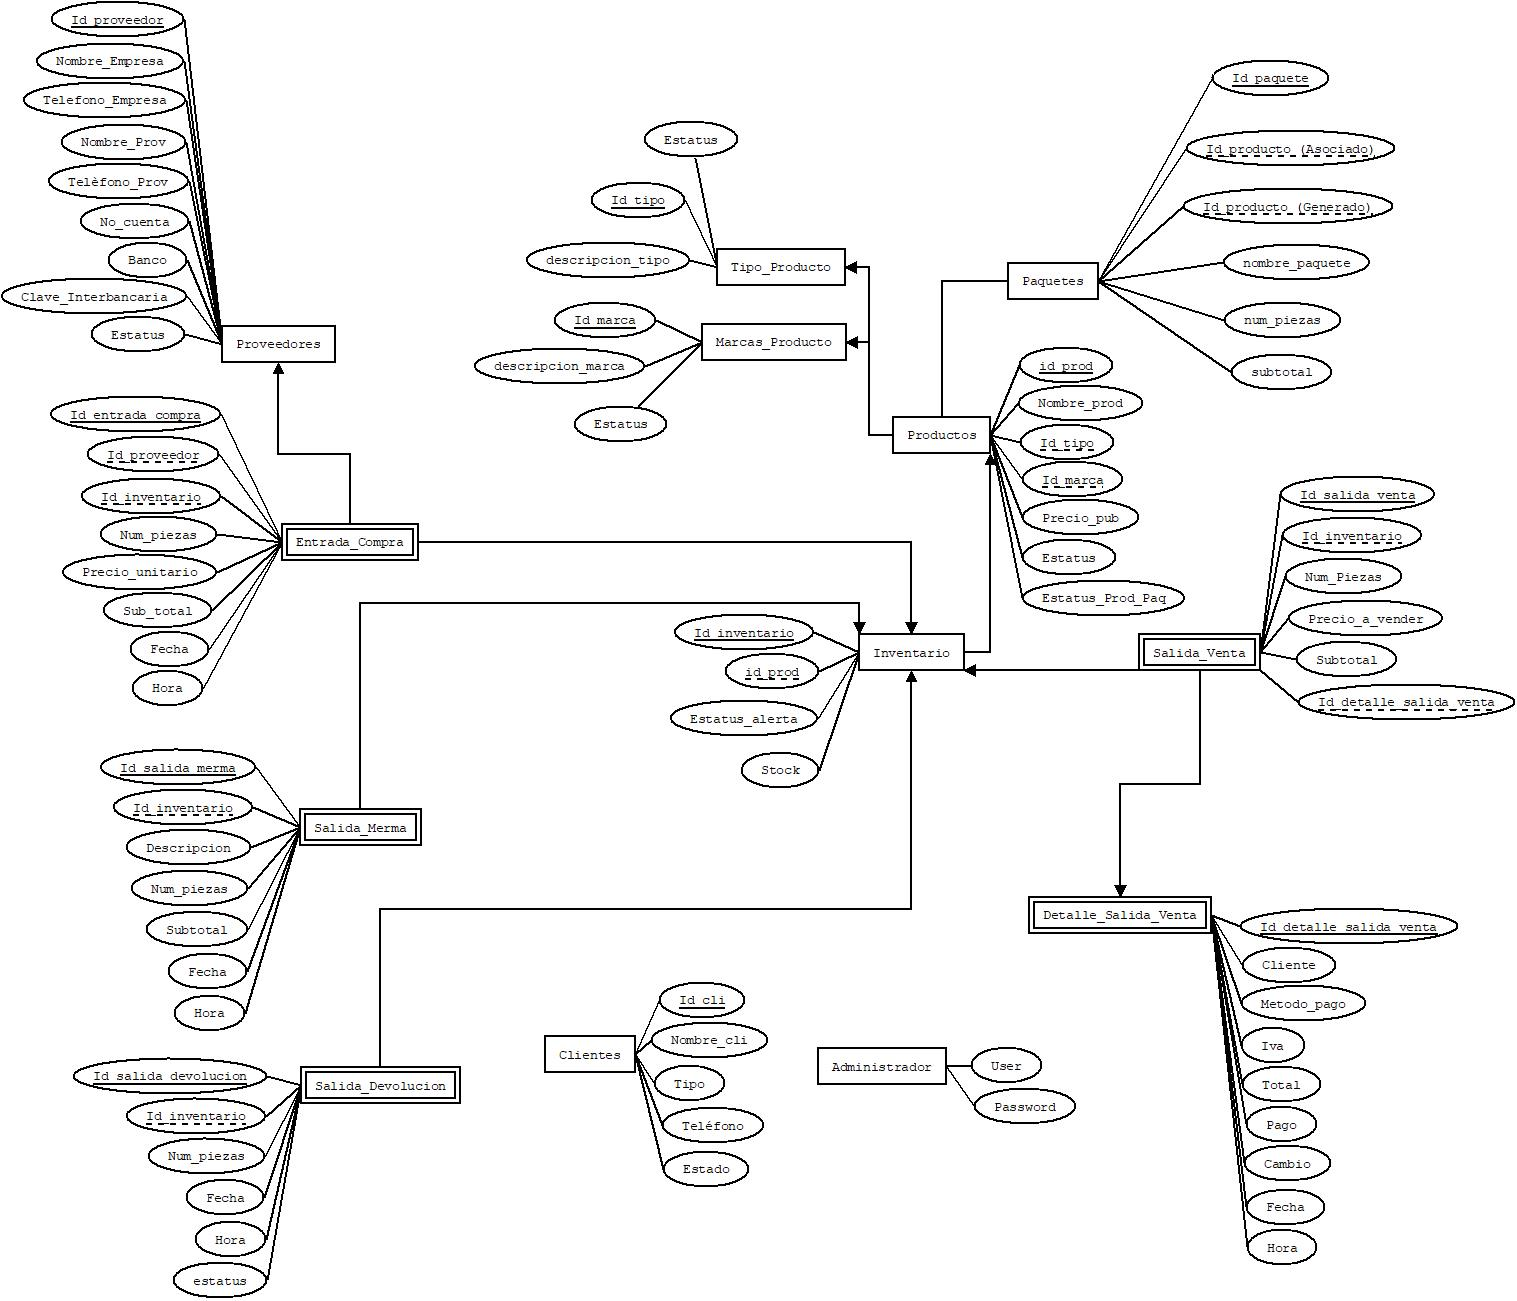
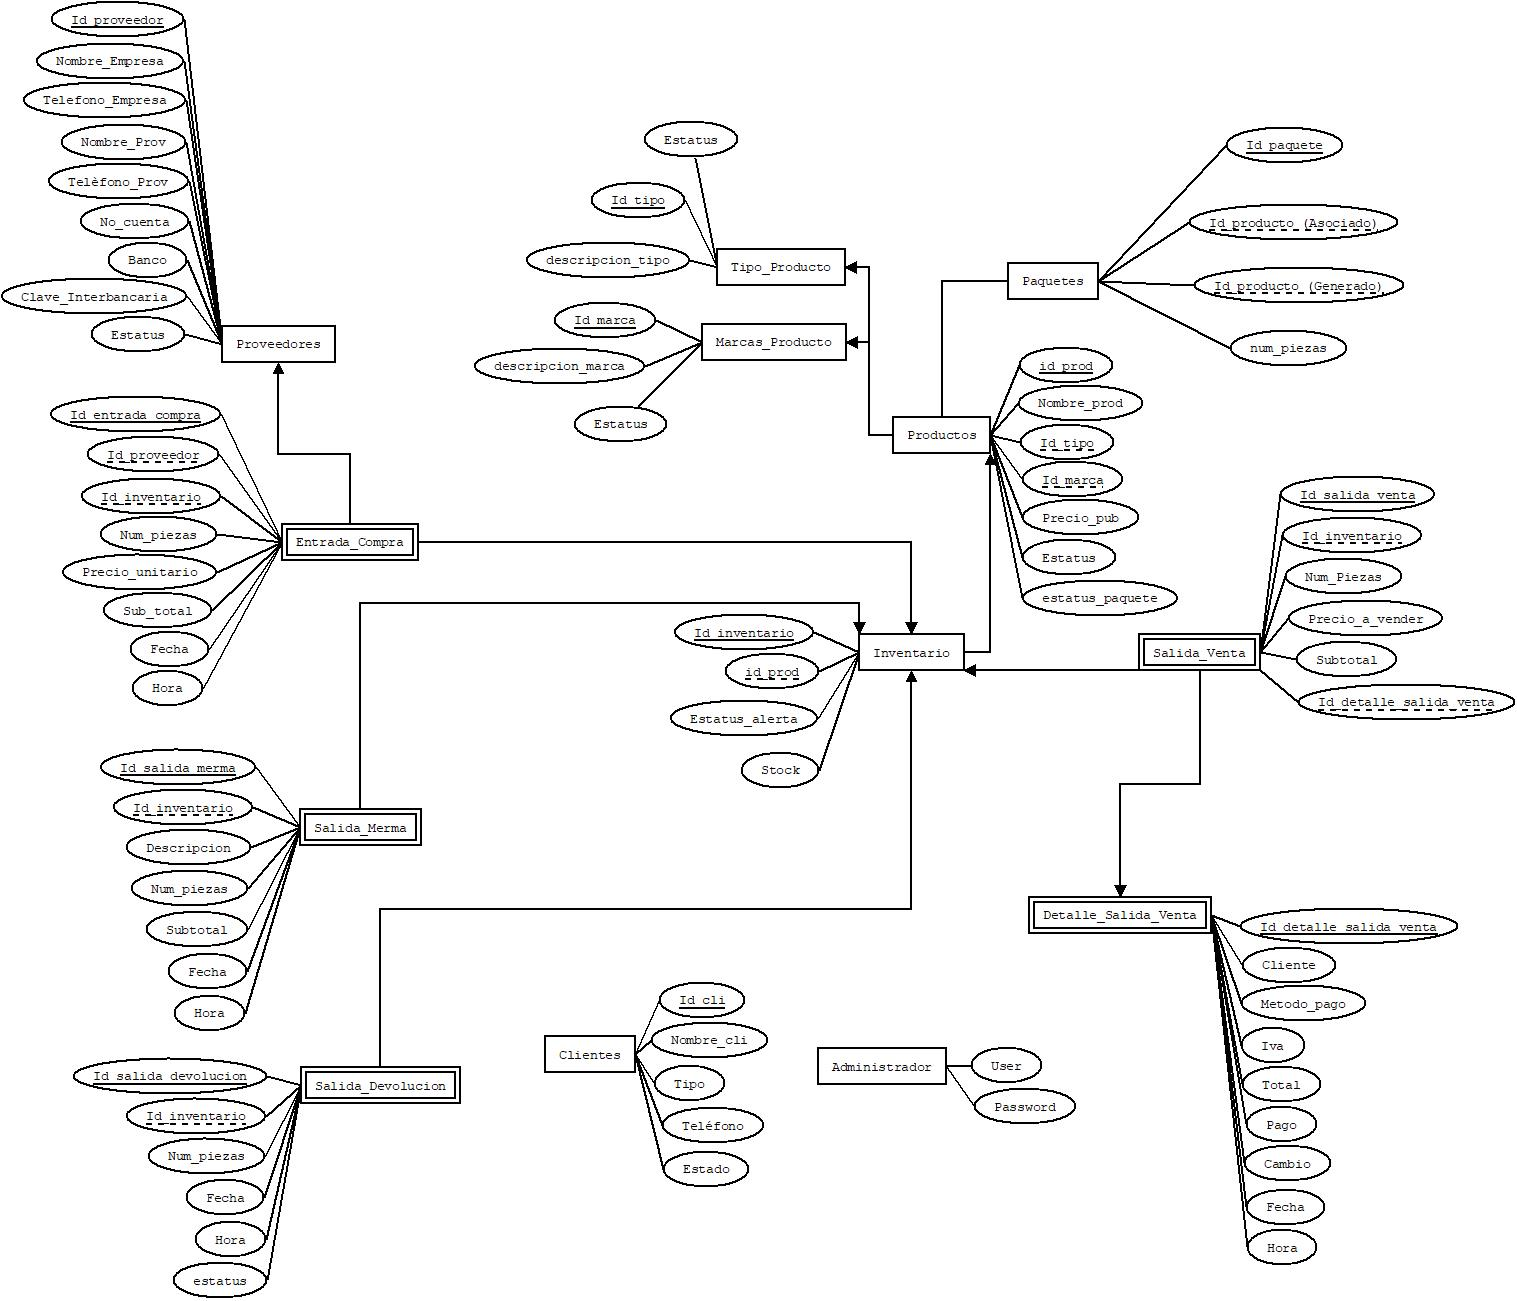
Módulo paquetes

Changed region(s): [[0.7126, 0.0307, 0.9295, 0.3075], [0.7436, 0.4304, 0.7746, 0.4612]]

diff --git a/Views/dist/js/pages/Paquetes.js b/Views/dist/js/pages/Paquetes.js
@@ -7,6 +7,35 @@ var id_paquete;
 var cantidad_editar;
 var precio_editar;
 var cont=0;
+
+//---------- Función para llenar Tabla  de Productos. ---------//
+async function tab_Productos() {
+    tabla_paquete = $("#TablaPaquetes").DataTable({
+        "responsive": true,
+        "autoWidth": false,
+        "ajax": {
+            "url": "../Controllers/PaqueteController.php",
+            "type": "POST",
+            "data": {
+                "obtener_paquete": "OK"
+            },
+           
+            "dataSrc": ""
+        },
+        "columns": [
+            {"data": "nombre_paquete"},
+            {"data": "num_piezas"},
+            {"data": "subtotal"},
+            {"defaultContent": "<button class='btn btn-success btn-sm btnVerStatus'>Ver</button>"},
+            {
+            "defaultContent": "<div class='text-center'><div class='btn-group'><button class='btn btn-danger btn-sm btnBorrar'><i class='fas fa-trash-alt'></i></button></div></div>"
+              
+            }
+        ]
+    });
+}
+tab_Productos();
+
 //---------------BUSQUEDA DE AUTOCOMPLETADO DE LOS PRODUCTOS ----------------//
 $(document).ready(async function autocompletado() {
     try {
@@ -45,7 +74,64 @@ $(document).ready(async function autocompletado() {
         notificarError(error);
     }
 });
+//---------- FUNCION PARA LLENAR SELECT DE TIPO DE PAQUETE ---------//
+async function llenar_Tipo_Producto(){
+    try {
 
+        var datosProducto = new FormData();
+        datosProducto.append('obtener_tipo_paquete','OK');
+        
+        var peticion = await fetch('../controllers/PaqueteController.php', {
+            method : 'POST',
+            body : datosProducto
+        });
+
+        var resjson = await peticion.json();
+
+        var selectTipoProducto = document.getElementById('tipo_paquete');
+        
+        for(item of resjson){
+            let option_r = document.createElement('option');
+            option_r.value = item.id_tipo;
+            option_r.text = item.descripcion_tipo;
+            selectTipoProducto.appendChild(option_r);
+
+        }
+        
+    } catch (error) {
+       notificarError(error);
+    }
+}
+llenar_Tipo_Producto();
+//---------- FUNCION PARA LLENAR SELECT DE MARCA PAQUETE ---------//
+async function llenar_Marca_Producto(){
+    try {
+
+        var datosProducto = new FormData();
+        datosProducto.append('obtener_marca_paquete','OK');
+        
+        var peticion = await fetch('../controllers/PaqueteController.php', {
+            method : 'POST',
+            body : datosProducto
+        });
+
+        var resjson = await peticion.json();
+
+        var selectMarcaProducto = document.getElementById('marca_paquete');
+       
+        for(item of resjson){
+            let optionM1 = document.createElement('option');
+            optionM1.value = item.id_marca;
+            optionM1.text = item.descripcion_marca;
+            selectMarcaProducto.appendChild(optionM1);
+
+        }
+        
+    } catch (error) {
+        notificarError(error);
+    }
+}
+llenar_Marca_Producto();
 
 ///------- Evento para botón de registro de Paquete------//
 form_agregar_paquete.addEventListener('submit', async function(e) {

diff --git a/Views/FormularioPaquetes/FrmPaquetes.php b/Views/FormularioPaquetes/FrmPaquetes.php
@@ -7,7 +7,7 @@
                 <div class="card">
                     <div class="card-body">
                         <i class="fas fa-archive" style="color:#F29F05; font-size: 30px;">  Paquetes</i>
-                         <button class="col-md-2 float-right btn btn-outline-primary" type="button" id="EditarVenta"><font size="4">Ver paquetes</font></button>
+                         
                     </div>
                 </div>
                 <!--=====================================
@@ -21,6 +21,14 @@
                             <div class="card">
                                 <div class="card-header" style="background-color:#84b6f4; color:white; font-size: 20px;">
                                     <i class="fas fa-th-large">   Selecciona Productos</i>
+                                </div>
+                                <div class="modal-body">
+                                <div class="col">
+                                <label for="nom_paquete">Nombre de paquete</label>
+                                    <div class="input-group mb-3">
+                                        <input id="nom_paquete" name="nom_paquete" type="text" class="form-control" placeholder="Nombre del Producto" aria-label="Recipient's username" >
+                                    </div>
+                                    </div>
                                 </div>
                                 <div class="card-body">
                                     <label for="nom_empresa">Buscar Producto</label>
@@ -66,19 +74,31 @@
                                 <div class="card-header" style="background-color:#84b6f4; color:white; font-size: 20px;">
                                     <i class="fas fa-archive">   Detalles de Paquete</i>
                                 </div>
+                                
+
                                 <div class="modal-body">
-                                <div class="col">
-                                <label for="nom_paquete">Nombre de paquete</label>
-                                    <div class="input-group mb-3">
-                                        <input id="nom_paquete" name="nom_paquete" type="text" class="form-control" placeholder="Nombre del Producto" aria-label="Recipient's username" >
-                                    </div>
-                                    </div>
-                                </div>
+                                <label for="tipo">Tipo Paquete</label>
+                                <div class="input-group mb-3">
+                                    <span class="input-group-text" id="addon-wrapping"><i class="fas fa-blender"></i></span>
+                                    <select class="form-control" name="tipo_paquete" id="tipo_paquete">
+                                <option value="default">Selecciona un tipo</option>
+                              </select>
+                             </div>
+                          </div>
+                                <div class="modal-body">
+                                <label for="marca">Marca  Paquete</label>
+                                <div class="input-group mb-3">
+                                    <span class="input-group-text" id="addon-wrapping"> <i class="fas fa-tag"></i></span>
+                                    <select class="form-control" name="marca_paquete" id="marca_paquete">
+                                    <option value="default">Selecciona una Marca</option>
+                                </select>
+                               </div>
+                            </div>
                                 <div class="modal-body">
                                         <label for="nom_empresa">Subtotal</label>
                                             <div class="input-group mb-3">
                                                 <span class="input-group-text" id="addon-wrapping"><i style="font-size: 20px;" class="fas fa-dollar-sign"></i></span>
-                                                <input id="subtotal" name="subtotal" style="font-size: 40px;" type="number" step="any" class="form-control input-lg" id="nuevoTotalVenta" name="nuevoTotalVenta" total="" placeholder="0" readonly required>
+                                                <input id="subtotal" name="subtotal" style="font-size: 35px;" type="number" step="any" class="form-control input-lg" id="nuevoTotalVenta" name="nuevoTotalVenta" total="" placeholder="0" readonly required>
                                             </div>
                                             </div>    
                                 <div class="modal-body">
@@ -86,7 +106,7 @@
                                 <label for="nom_empresa">Total</label>
                                 <div class="input-group mb-3">
                                         <span class="input-group-text" id="addon-wrapping"><i style="font-size: 20px;" class="fas fa-dollar-sign"></i></span>
-                                        <input id="total" name="total" style="font-size: 40px;" type="number" step="any" class="form-control input-lg" total="" placeholder="0"  required>
+                                        <input id="total" name="total" style="font-size: 35px;" type="number" step="any" class="form-control input-lg" total="" placeholder="0"  required>
                                     </div>
                                 </div>
                                 </div>
@@ -103,7 +123,7 @@
                 <div class="card">
                     <div class="card-header" style="background-color:#84b6f4; color:white; font-size: 20px;">
                         <i class="fas fa-cart-plus"> Lista de productos </i>
-                    </div>
+                        </div>
                     <div class="card-body">
                         <table id="tablapqt" class="table table-light">
                             <thead class="thead-light">
@@ -116,13 +136,30 @@
                                 </tr>
                             </thead>
                             </form>
-                            <tbody id="tbody">
-                             
-                            </tbody>
                         </table>
                     </div>
                 </div>
-            </div>
-        </div>
+                </div>
+
+                
+                   
+                     <!-- /.card-header -->
+                            <div class="card-body">
+                                <table id="TablaPaquetes" class="table table-light">
+                                    <thead class="thead-light">
+                                        <tr class="table table-dark">
+                                            <th>Nombre paquete</th>
+                                            <th>Número de Articulos</th>
+                                            <th>Total</th>
+                                            <th>Lista Productos</th>
+                                            <th>Acciones</th>
+                                        </tr>
+                                    </thead>
+                                </table>
+                            </div>
+                            <!-- /.card-body -->
+                            
+                            
+        </div> 
     </div>
 </div>

diff --git a/Models/PaquetesModel.php b/Models/PaquetesModel.php
@@ -14,6 +14,9 @@ class PaqueteModelo
     private static $BUSCAR_PROD_ID = "SELECT id_producto FROM productos WHERE nombre_producto=?";
     //---------- Consultas para insertar paquete ------------// 
     private static $INSERTAR_PAQUETE = "INSERT INTO paquetes ( id_prod_asociado, id_prod_generado,nombre_paquete, num_piezas, subtotal) values (?, ?, ?, ?, ?)";
+    private static $BORRAR_PRODUCTO = "DELETE FROM paquetes WHERE  id_prod_asociado = ?";
+    private static $SELECT_PAQUETES = "SELECT nombre_paquete, num_piezas, subtotal FROM paquetes";
+
     //-------- FUNCIÓN PARA CAMBIAR ESTATUS DE PRODUCTO -------//
 public static function agregar_productos($nombre,$nombre_paquete, $cantidad, $subtotal)
 {
@@ -61,6 +64,69 @@ public static function agregar_productos($nombre,$nombre_paquete, $cantidad, $su
         return $e->getMessage();
     }
 }
+ 
+//-------- FUNCIÓN PARA ELIMINAR PRODUCTO -------//
+public static function eliminar_productos($producto)
+{
+    try {
+
+        $conexion = new Conexion();
+        $conn = $conexion->getConexion();
+        //Se abre la transacción.
+       $conn->beginTransaction();
+
+        //-------- Se busca el ID del producto ------//
+        $pst = $conn->prepare(self::$BUSCAR_PROD_ID);
+        $pst->execute([$producto]);
+        $id_prod= $pst->fetchAll(PDO::FETCH_ASSOC);
+        $id_producto = $id_prod[0]["id_producto"];
+
+    if (!empty($id_producto)) {
+        $pst = $conn->prepare(self::$BORRAR_PRODUCTO);
+        $resultado=$pst->execute([$id_producto]);
+
+        if ($resultado == 1) {
+           $msg = "OK";
+           //Si todo está correcto se inserta.
+           $conn->commit();
+       } else {
+           $msg = "Falló al eliminar";
+           //Si algo falla, reestablece la bd a como estaba en un inicio.
+           $conn->rollBack();
+       }
+
+        $conn = null;
+        $conexion->closeConexion();
+        return $msg;
+
+    } else {
+        return $msg="ERROR";
+    }
+    $conn = null;
+    $conexion->closeConexion();
+    } catch (PDOException $e) {
+        return $e->getMessage();
+    }
+}
+//-------- FUNCIÓN PARA OBTENER LOS PRODUCTOS DE PAQUETES-------//
+public static function obtener_paquetes()
+{
+    try {
+        $conexion = new Conexion();
+        $conn = $conexion->getConexion();
+
+        $pst = $conn->prepare(self::$SELECT_PAQUETES);
+        $pst->execute();
+
+        $productos = $pst->fetchAll();
+        $conn = null;
+        $conexion->closeConexion();
+
+        return $productos;
+    } catch (PDOException $e) {
+        return $e->getMessage();
+    }
+}
  //-------- FUNCIÓN PARA OBTENER LOS TIPOS DE PRODUCTO -------//
  public static function obtener_tipo_paquetes()
  {
@@ -100,7 +166,6 @@ public static function agregar_productos($nombre,$nombre_paquete, $cantidad, $su
           return $e->getMessage();
       }
   }
-
 
 //--------------- FUNCIONES PARA AUTOCOMPLETADO DE PRODUCTOS -------------//
 public static function obtenerProductos()

diff --git a/Views/Paquetes.php b/Views/Paquetes.php
@@ -23,8 +23,9 @@ if (!isset($_SESSION['user']) ) {
         <?php include("include/navegacion.php"); ?>
         <!----------------- REGISTRO DE PAQUETES ------------------>
            <?php  include("FormularioPaquetes/FrmPaquetes.php"); ?> 
-        <!---------------- EDITAR PAQUETES ----------------->
+        <!---------------- VER  PAQUETES ----------------->
         <?php include("FormularioPaquetes/FrmEditarPaquetes.php"); ?>
+        
         <!---------------------- FOOTER ------------------------->
         <?php include("Include/footer.php") ?>
 

diff --git a/Controllers/PaqueteController.php b/Controllers/PaqueteController.php
@@ -50,6 +50,11 @@ if (isset($_POST['agregar_producto'])) {
     $respuesta = PaqueteModelo::agregar_paquetes($Paquete);
     echo json_encode(['respuesta' => $respuesta]); 
 }
+//---------- Obtener  Producto -------//
+if (isset($_POST['obtener_paquete'])) {
 
+    $data = PaqueteModelo::obtener_paquetes();
+    echo json_encode($data);
+}
 
 ?>
